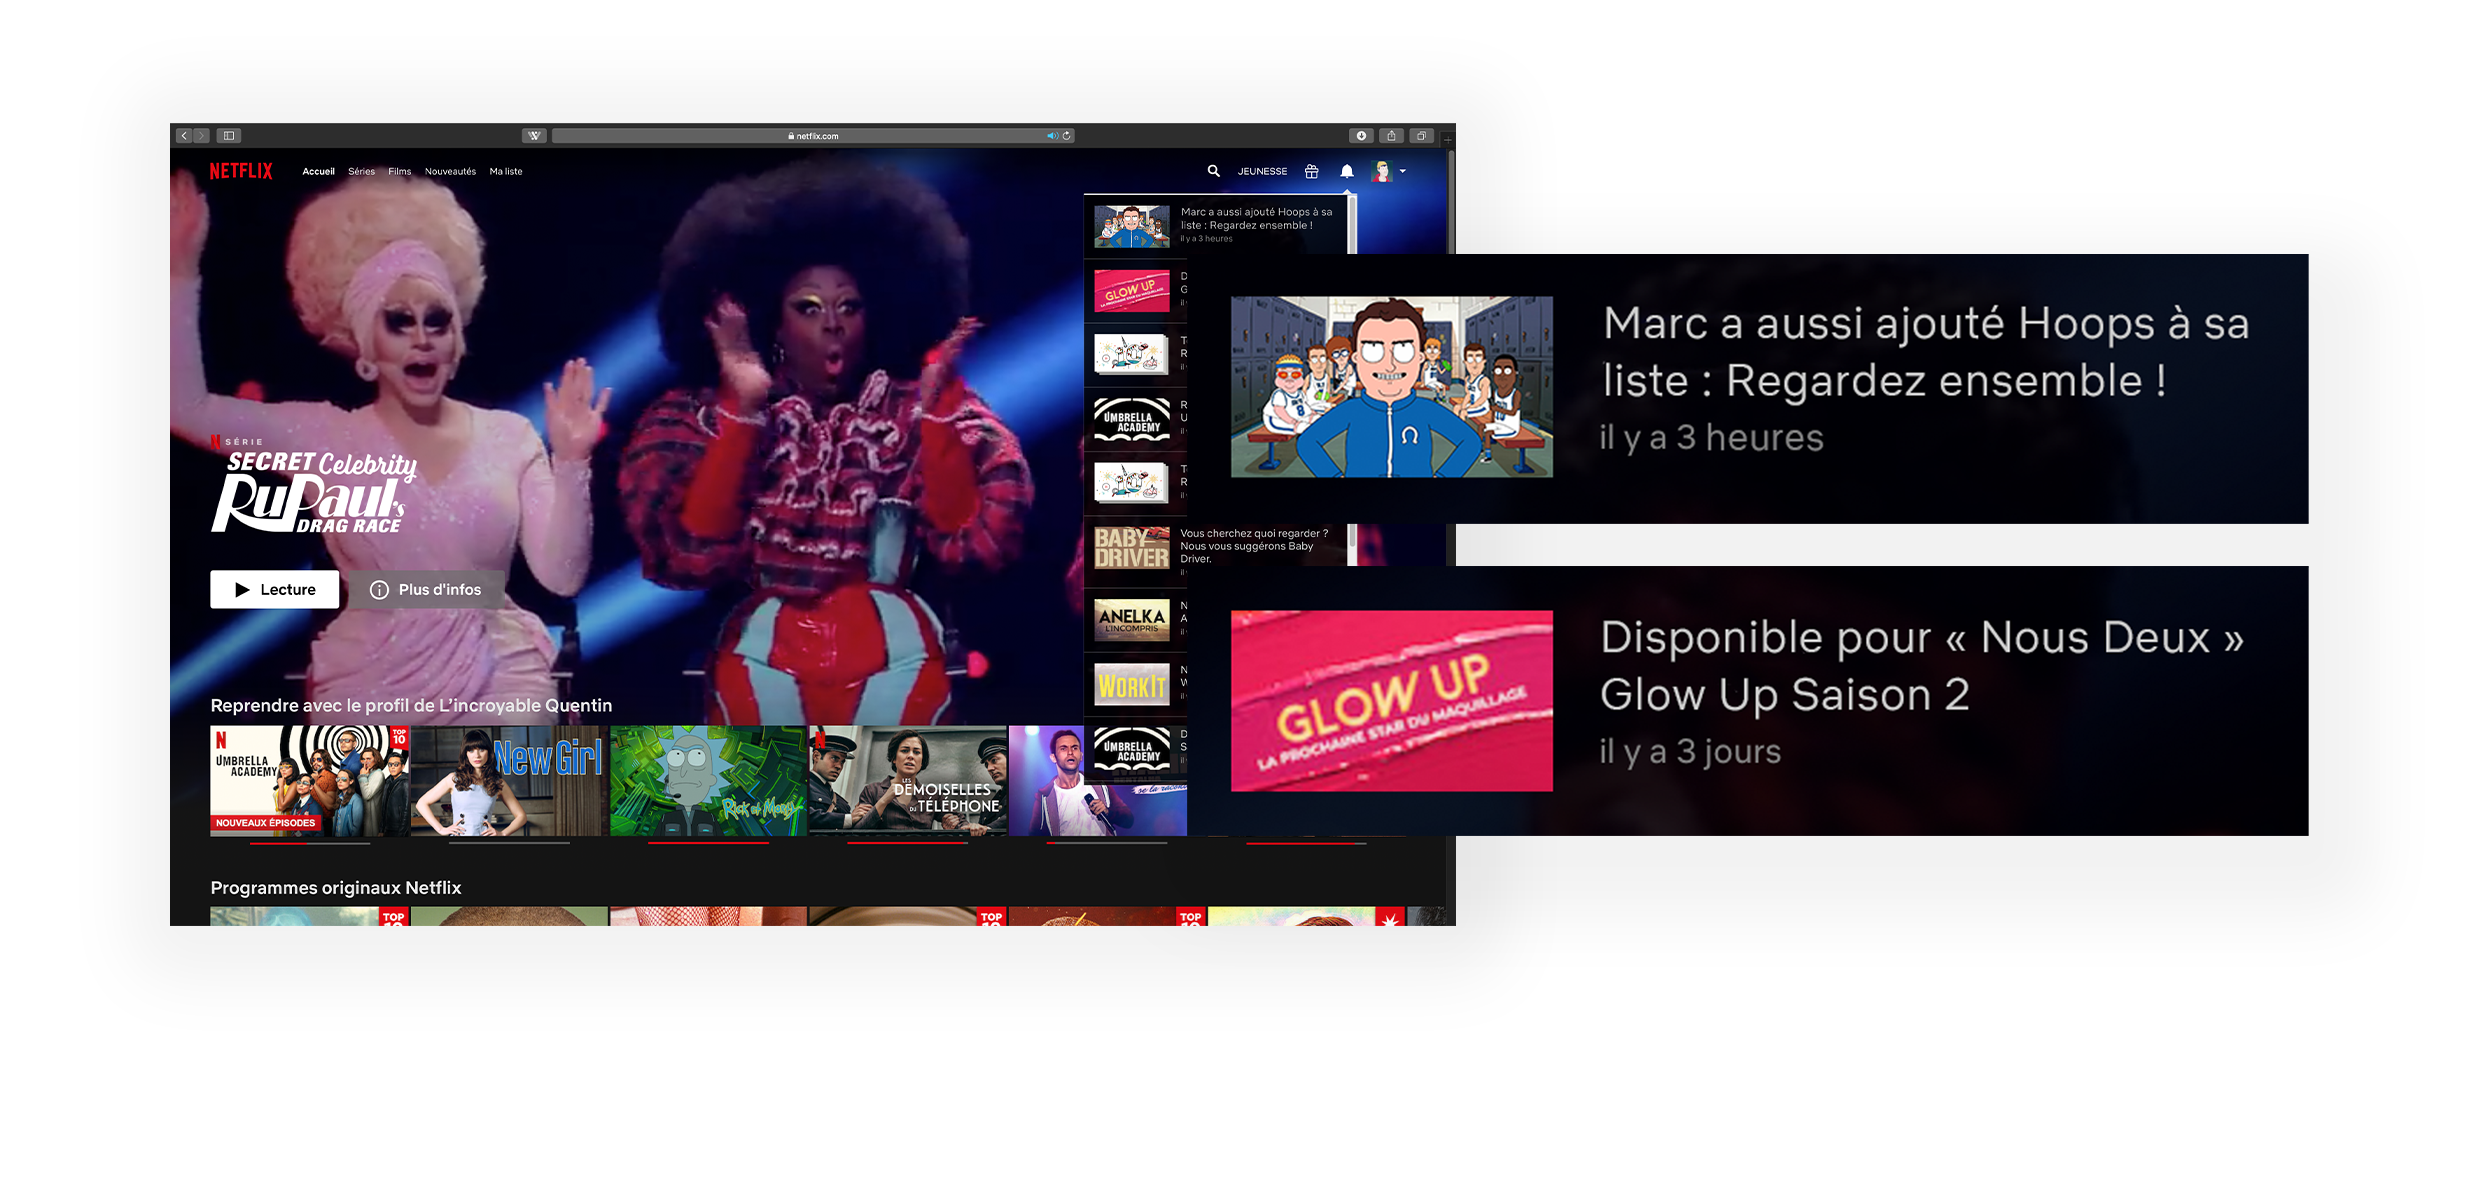
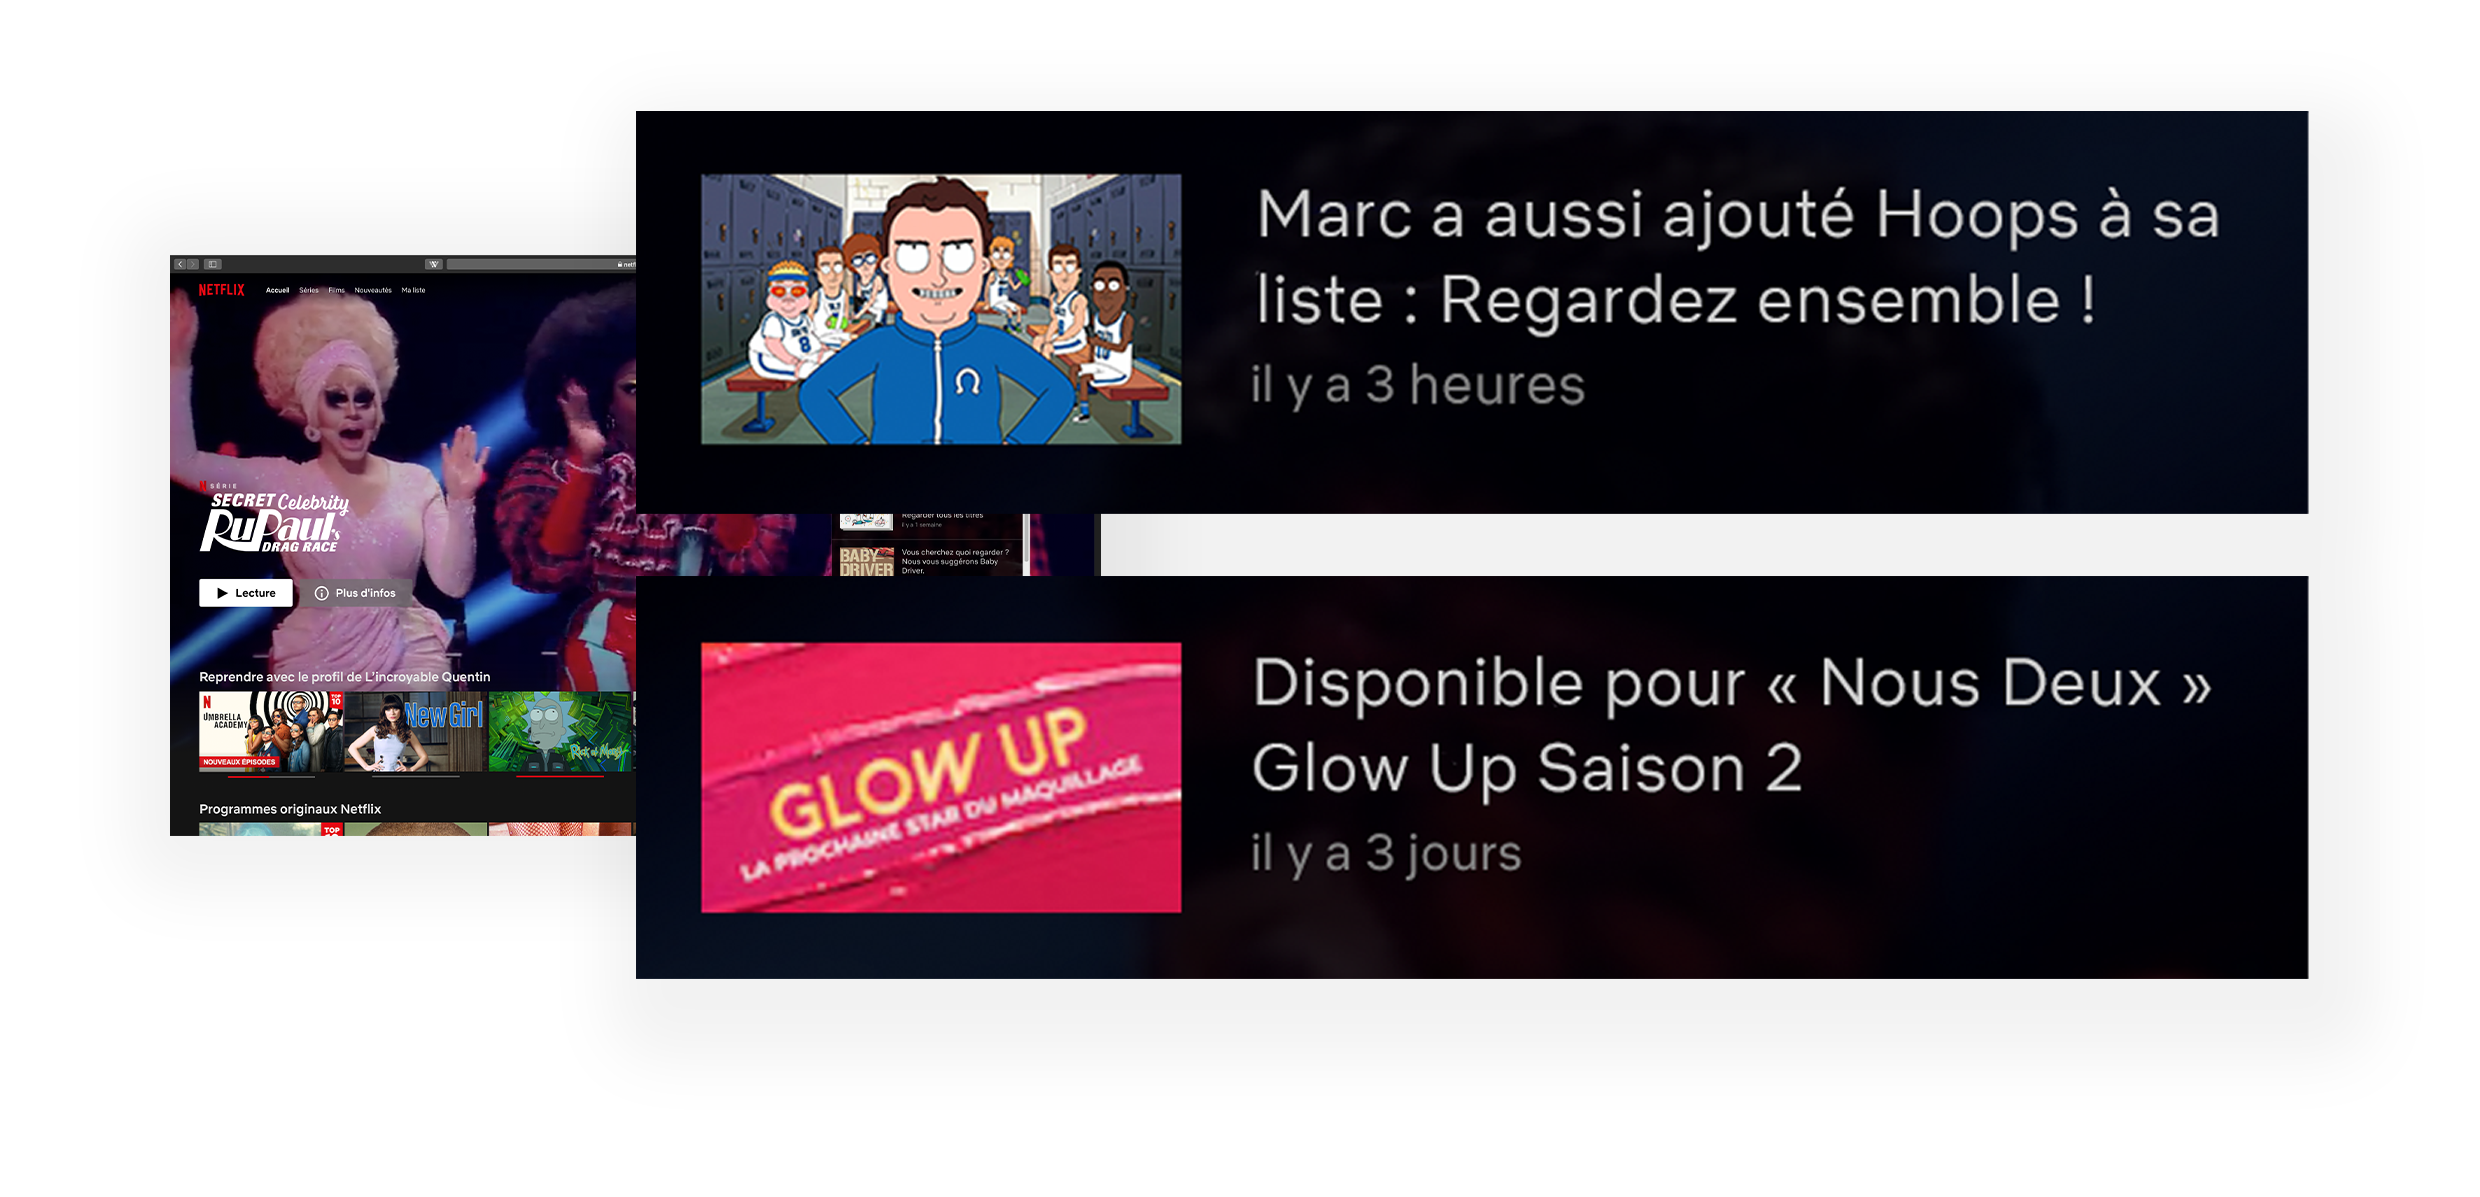
netflix

diff --git a/netflixensemble.html b/netflixensemble.html
@@ -119,10 +119,27 @@
          <!--   <div>
             <img src="images/Netflix-0.png" alt="Image" width="100%">
           </div> -->
+		
+
+		<h2> 	- T’as regardé sans moi ? <br/>
+				- Mais je savais pas que tu voulais voir cette série !<br/>  </h2>
+        <p>On a beau vivre ensemble, on ne suit pas toujours les mêmes séries, on a chacun notre profil sur Netflix. Pratique pour avoir des suggestions vraiment personnalisées selon nos goûts. Mais dans la majorité des cas, on regarde ensemble , sur le profil de l’un ou de l’autre. 
+		<br/>
+		On ajoute chacun de notre côtés des nouveautés à nos listes de séries à voir au fil des notifications et suggestions. Pas simple d’éviter le <a href="https://www.google.fr/amp/s/amp.grazia.fr/lifestyle/psycho-sexo/"> « Netflix Cheating » pratiqué par 45% des français  </a>. <br/> <br/>
+		</p>
 
 
-          <h2>Découvrez les groupes de visionnage </h2>
-            <p>et commencez dès maintenant à regarder ensemble vos séries péréférées !</p>
+
+
+          <h2><br/>Découvrez les groupes de visionnage<br/><br/> </h2>
+          <p>Sélectionnez plusieurs profils d’un même compte Netflix pour créer un profil « commun » qui permet : 
+
+			<ul class="list-unstyled">
+                  <li> <b>•</b> De proposer des contenus adaptés aux goûts communs des membres du groupe lorsque j’indique que l’on regarde ensemble </li>
+                  <li> <b>•</b> De notifier automatiquement les membres d’un même groupe qui ajoutent le même programme à leur liste </li>
+                  
+                </ul> 
+            </p>
 
           </div>
           
@@ -139,12 +156,17 @@
           </div>
 
           <div>
-            <img src="images/Netflix-2.png" alt="Image" width="100%">
+            <img src="images/Netflix-X.png" alt="Image" width="100%">
           </div> 
             
-
-            <h2>Des notifications pour ne rien rater</h2>
+		<div class="col-12 mb-4 position-relative">
+            <h2><br/>Des notifications pour ne rien rater <br/> </h2>
             <p>soyez informé lorsque plusieurs membres du groupe ajoutent le même programme à leur liste !</p>
+        </div>
+
+        <div>
+            <img src="images/Netflix-2.png" alt="Image" width="100%">
+        </div>
 
        <br/><br/><br/><br/><br/><br/><br/><br/><br/><br/>
 
